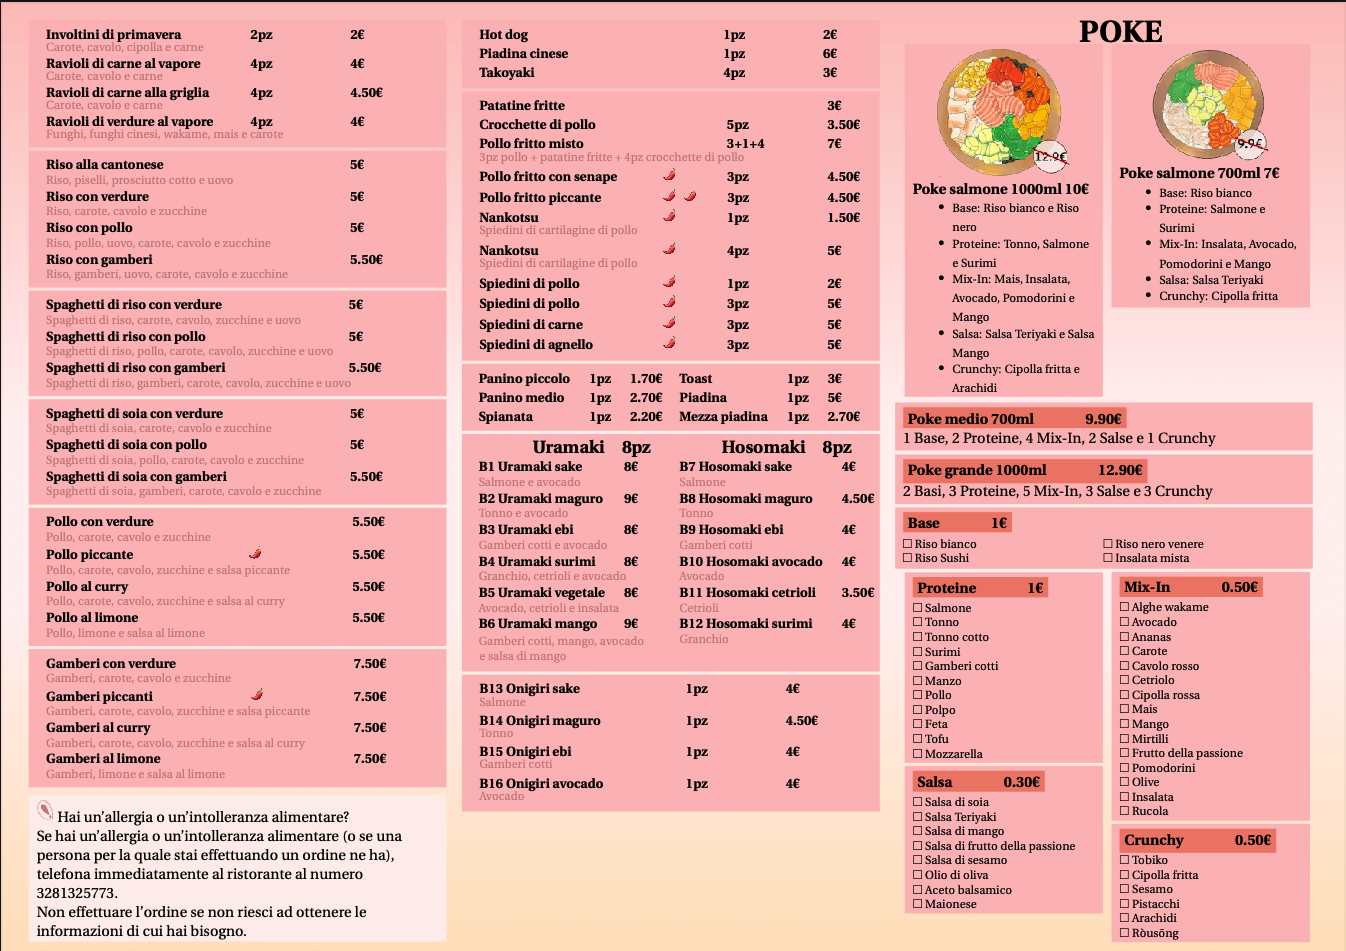
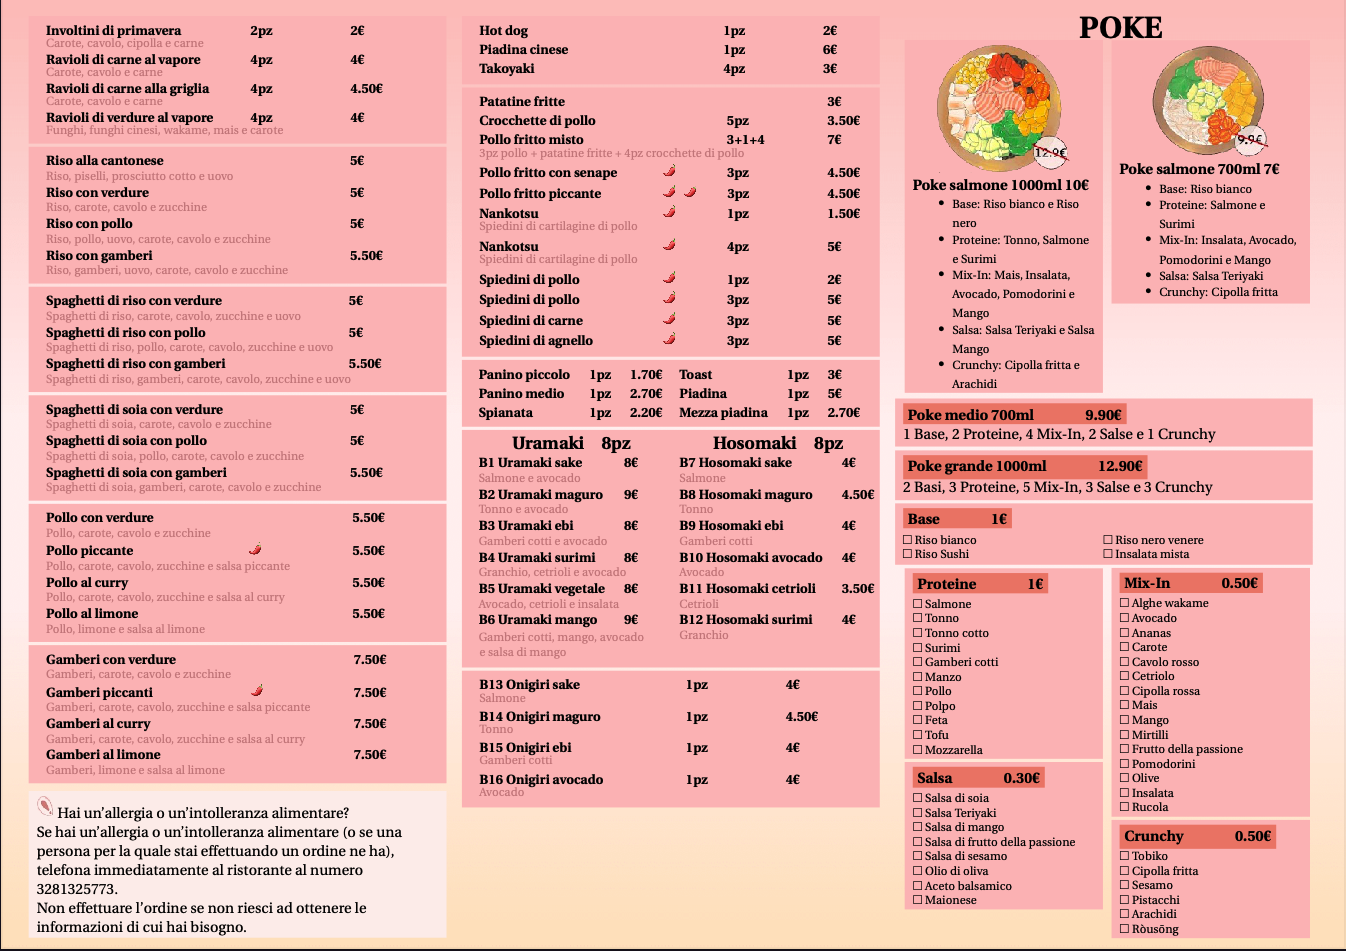
Generic fixes

diff --git a/Bobo_Tea_menu/Menu.tex b/Bobo_Tea_menu/Menu.tex
@@ -294,7 +294,7 @@ version={4.0},
 						\begin{tabular*}{\linewidth}{ l l l }
 						\entryThreeSpecialDouble{A56 Hata Kosen}{(Bibita frizzante)}{200ml}{3€}
 						\entryThreeSpecialDouble{A57 Mogu Mogu}{(Bibita dolce)}{320ml}{2.50€}
-						\entryThreeSpecial{A58 Bira Becks }{330ml}{2.50€}
+						\entryThreeSpecial{A58 Bira Beck's }{330ml}{2.50€}
 						\entryThreeSpecial{A59 Birra Peroni}{330ml}{2.50€}
 						\entryThreeSpecial{A60 Birra Heineken }{330ml}{2.50€}
 						\entryThreeSpecial{A61 Birra Ichnusa }{330ml}{3€}
@@ -307,14 +307,13 @@ version={4.0},
 			}
 			
 		}&{
-		%------------------------------------------------------------------ Here I'm working -------------------------------------
 		\vspace*{0.1cm}
 		\hspace*{-2mm}
 		\begin{tikzpicture}
 			\draw (0, 0) node[inner sep=0]{\includegraphics[width=1.1\linewidth]{Mascotte.png}};
-			\draw (0.8, 5) node {\textbf{Consegna entro 2km a 2euro,}};
-			\draw (1.3, 4.68) node {\textbf{per un minimo di 15euro di spesa,}};
-			\draw (1.3, 4.35) node {\textbf{consegna gratuita sopra i 30euro.}};
+			\draw (0.8, 5) node {\textbf{Consegna entro 2km a 2€,}};
+			\draw (1.3, 4.68) node {\textbf{per un minimo di 15€ di spesa,}};
+			\draw (1.3, 4.35) node {\textbf{consegna gratuita sopra i 30€.}};
 			
 			\draw (1.3, 3.5) node {\textbf{Orario: \hspace*{1.5mm}Lunedì - Sabato  \hspace*{1.5mm} 7:00 - 21:00}};
 			\draw (1.63, 3.1) node {\textbf{ Domenica  \hspace*{1.5mm} 12:00 - 20:00}};
@@ -325,8 +324,6 @@ version={4.0},
 			\draw (-1.7, 0.5) node {\textbf{Via: C.B Cavour 165,}};
 			\draw (-1.9, 0.2) node {\textbf{47521, Cesena FC }};
 		\end{tikzpicture}
-		
-			% 47521, Cesena FC
 		}
 	\end{tabularx}
 	
@@ -378,7 +375,6 @@ version={4.0},
 				\begin{tabular*}{\linewidth}{ l l }
 					\entryTwoDesc{Pollo con verdure}{\vspace*{-0.5mm}Pollo, carote, cavolo e zucchine}{\hspace*{15mm}5.50€}
 					\entryTwoDesc{Pollo piccante \hspace*{24mm}{\Large\chili}}{\vspace*{-0.5mm}Pollo, carote, cavolo, zucchine e salsa piccante}{\hspace*{15mm}5.50€}
-					%\entryThreeDesc{Pollo piccante}{Pollo, carote, cavolo, zucchine e salsa piccante}{\chili}{5.50€}
 					\entryTwoDesc{Pollo al curry}{\vspace*{-0.5mm}Pollo, carote, cavolo, zucchine e salsa al curry}{\hspace*{15mm}5.50€}
 					\entryTwoDesc{Pollo al limone}{\vspace*{-0.5mm}Pollo, limone e salsa al limone}{\hspace*{15mm}5.50€}
 				\end{tabular*}
@@ -454,7 +450,7 @@ version={4.0},
 				\hspace*{-3mm}
 				\begin{tabularx}{\linewidth}{XX}
 					{
-						{\hspace*{8mm} \large \textbf{Uramaki\Space8pz}}
+						{\Space\Space\Space\large\textbf{Uramaki\Space8pz}}
 						\begin{tabular*}{\linewidth}{ l l }
 							\entryTwoDesc{B1 Uramaki sake}{\vspace*{-0.5mm}Salmone e avocado}{8€}
 							\entryTwoDesc{B2 Uramaki maguro}{\vspace*{-0.5mm}Tonno e avocado}{9€}
@@ -464,7 +460,7 @@ version={4.0},
 							\entryTwoDesc{B6 Uramaki mango}{\vspace*{-0.5mm}\thead{Gamberi cotti, mango, avocado\\ \hspace*{-17mm}e salsa di mango}}{9€}
 						\end{tabular*}
 					}&{
-						{\hspace*{8mm} \large \textbf{Hosomaki\Space8pz}}
+						{\Space\Space\Space\large\textbf{Hosomaki\Space8pz}}
 						\begin{tabular*}{\linewidth}{ l l }
 							\entryTwoDesc{B7 Hosomaki sake}{\vspace*{-0.5mm}Salmone}{4€}
 							\entryTwoDesc{B8 Hosomaki maguro}{\vspace*{-0.5mm}Tonno}{4.50€}
